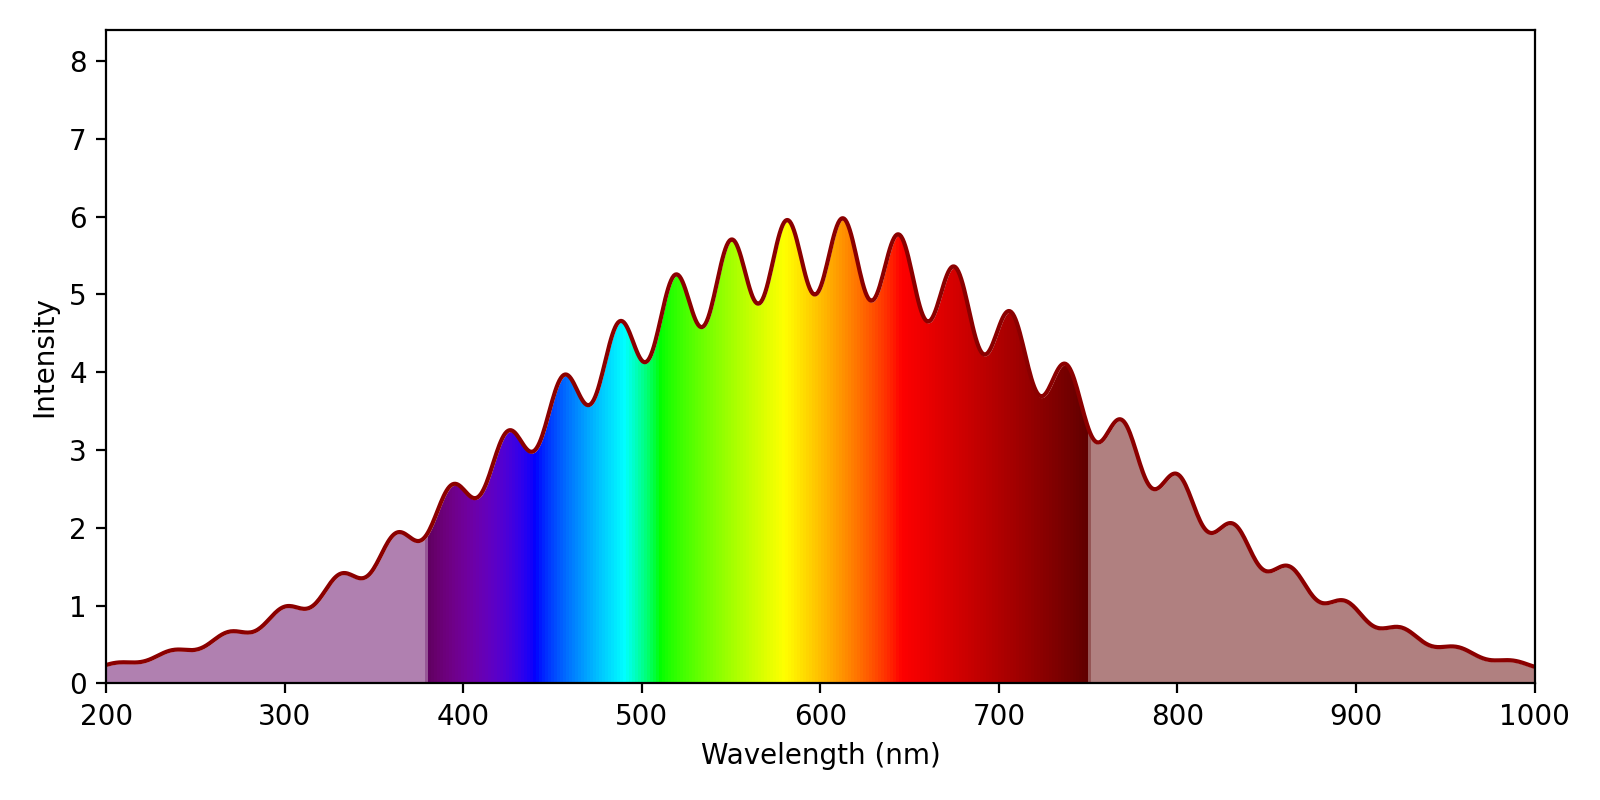
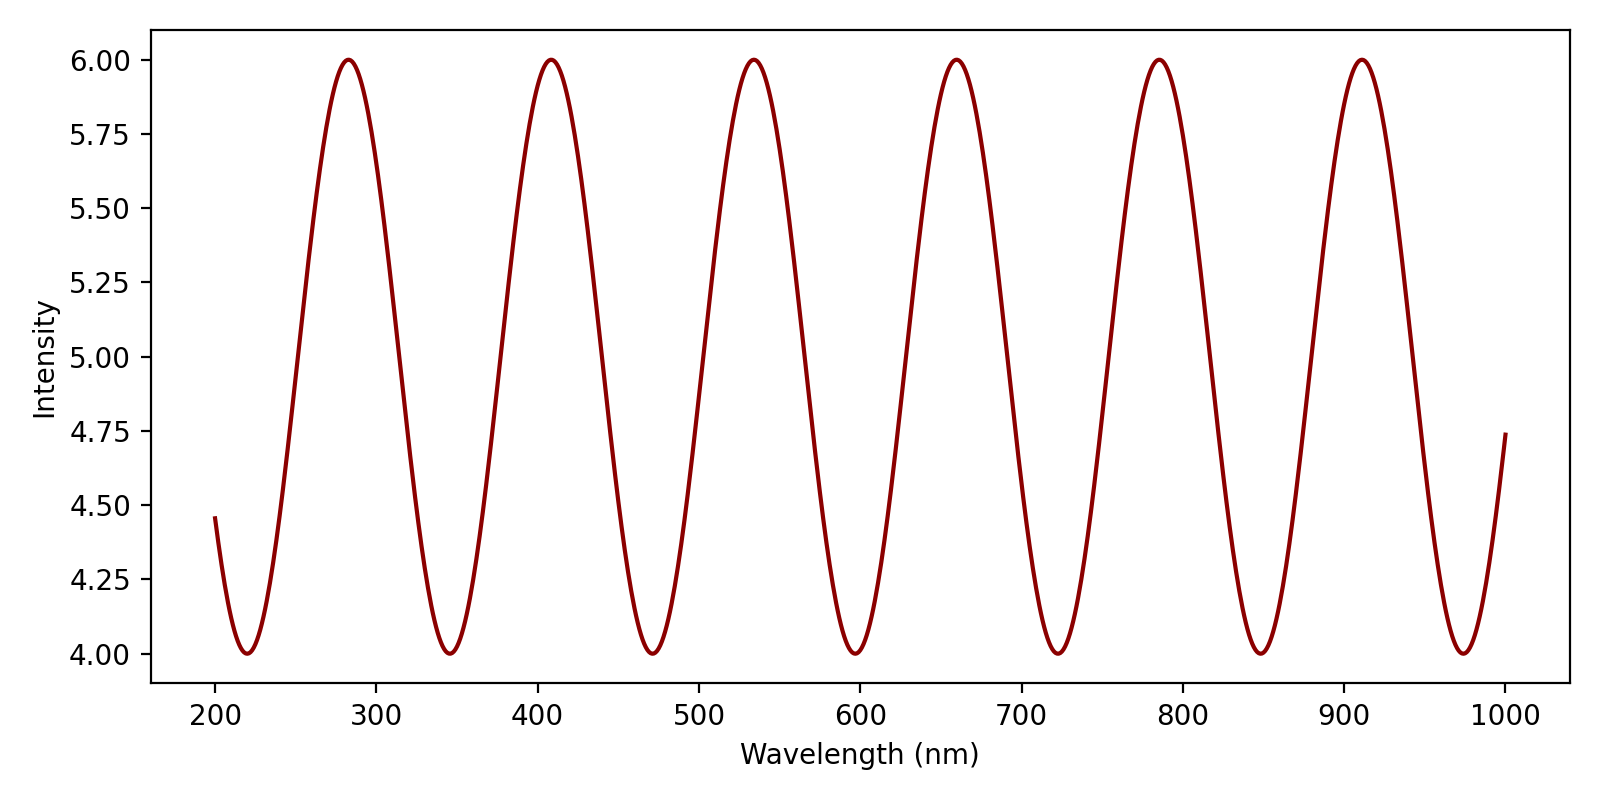
Mainloop

diff --git a/spectrometer.py b/spectrometer.py
@@ -69,33 +69,38 @@ class videoROI(Thread):
 if __name__ == "__main__":
     video = videoROI(0)
     video.start()
-    # while True:
-    #     if video.getImage() is not None:
-    #         print(video.getImage().shape)
-    #     time.sleep(1)
-
     clim=(350,780)
     norm = plt.Normalize(*clim)
     wl = np.arange(clim[0],clim[1]+1,2)
     colorlist = list(zip(norm(wl),[analyze.wavelength_to_rgb(w) for w in wl]))
     spectralmap = matplotlib.colors.LinearSegmentedColormap.from_list("spectrum", colorlist)
-
     fig, axs = plt.subplots(1, 1, figsize=(8,4), tight_layout=True)
-
-    wavelengths = np.linspace(200, 1000, 1000)
-    spectrum = (5 + np.sin(wavelengths*0.1)**2) * np.exp(-0.00002*(wavelengths-600)**2)
-    plt.plot(wavelengths, spectrum, color='darkred')
-
+    wavelengths = np.linspace(200, 1000, 801)       # X-axis
+    spectrum = (np.sin(wavelengths*0.05) +5)
+    graph = plt.plot(wavelengths, spectrum, color='darkred')[0]
     y = np.linspace(0, 6, 100)
     X,Y = np.meshgrid(wavelengths, y)
-
     extent=(np.min(wavelengths), np.max(wavelengths), np.min(y), np.max(y))
-
-    plt.imshow(X, clim=clim,  extent=extent, cmap=spectralmap, aspect='auto')
     plt.xlabel('Wavelength (nm)')
     plt.ylabel('Intensity')
-
-    plt.fill_between(wavelengths, spectrum, 8, color='w')
     plt.savefig('WavelengthColors.png', dpi=200)
+    plt.ion()
+    
+    
+    
+    # Mainloop
+    i = 0
+    while True:
+        i += 1
+        print("in here")
+        spectrum = (np.sin(wavelengths*i/100) +5)
+        if i == 100:
+            i = 0
 
-    plt.show()
+
+        plt.clf()
+        plt.imshow(X, clim=clim,  extent=extent, cmap=spectralmap, aspect='auto')
+        plt.fill_between(wavelengths, spectrum, 8, color='w')
+        graph.set_ydata(spectrum)
+        plt.draw()
+        plt.pause(1)

diff --git a/analyze.py b/analyze.py
@@ -52,3 +52,14 @@ def wavelength_to_rgb(wavelength, gamma=0.8):
         G = 0.0
         B = 0.0
     return (R, G, B, A)
+
+
+
+def getImageColor(frame):
+
+    h, w, _ = frame.shape
+
+    for i in range(h):
+        for j in range(w):
+            color = frame[i,j]
+
